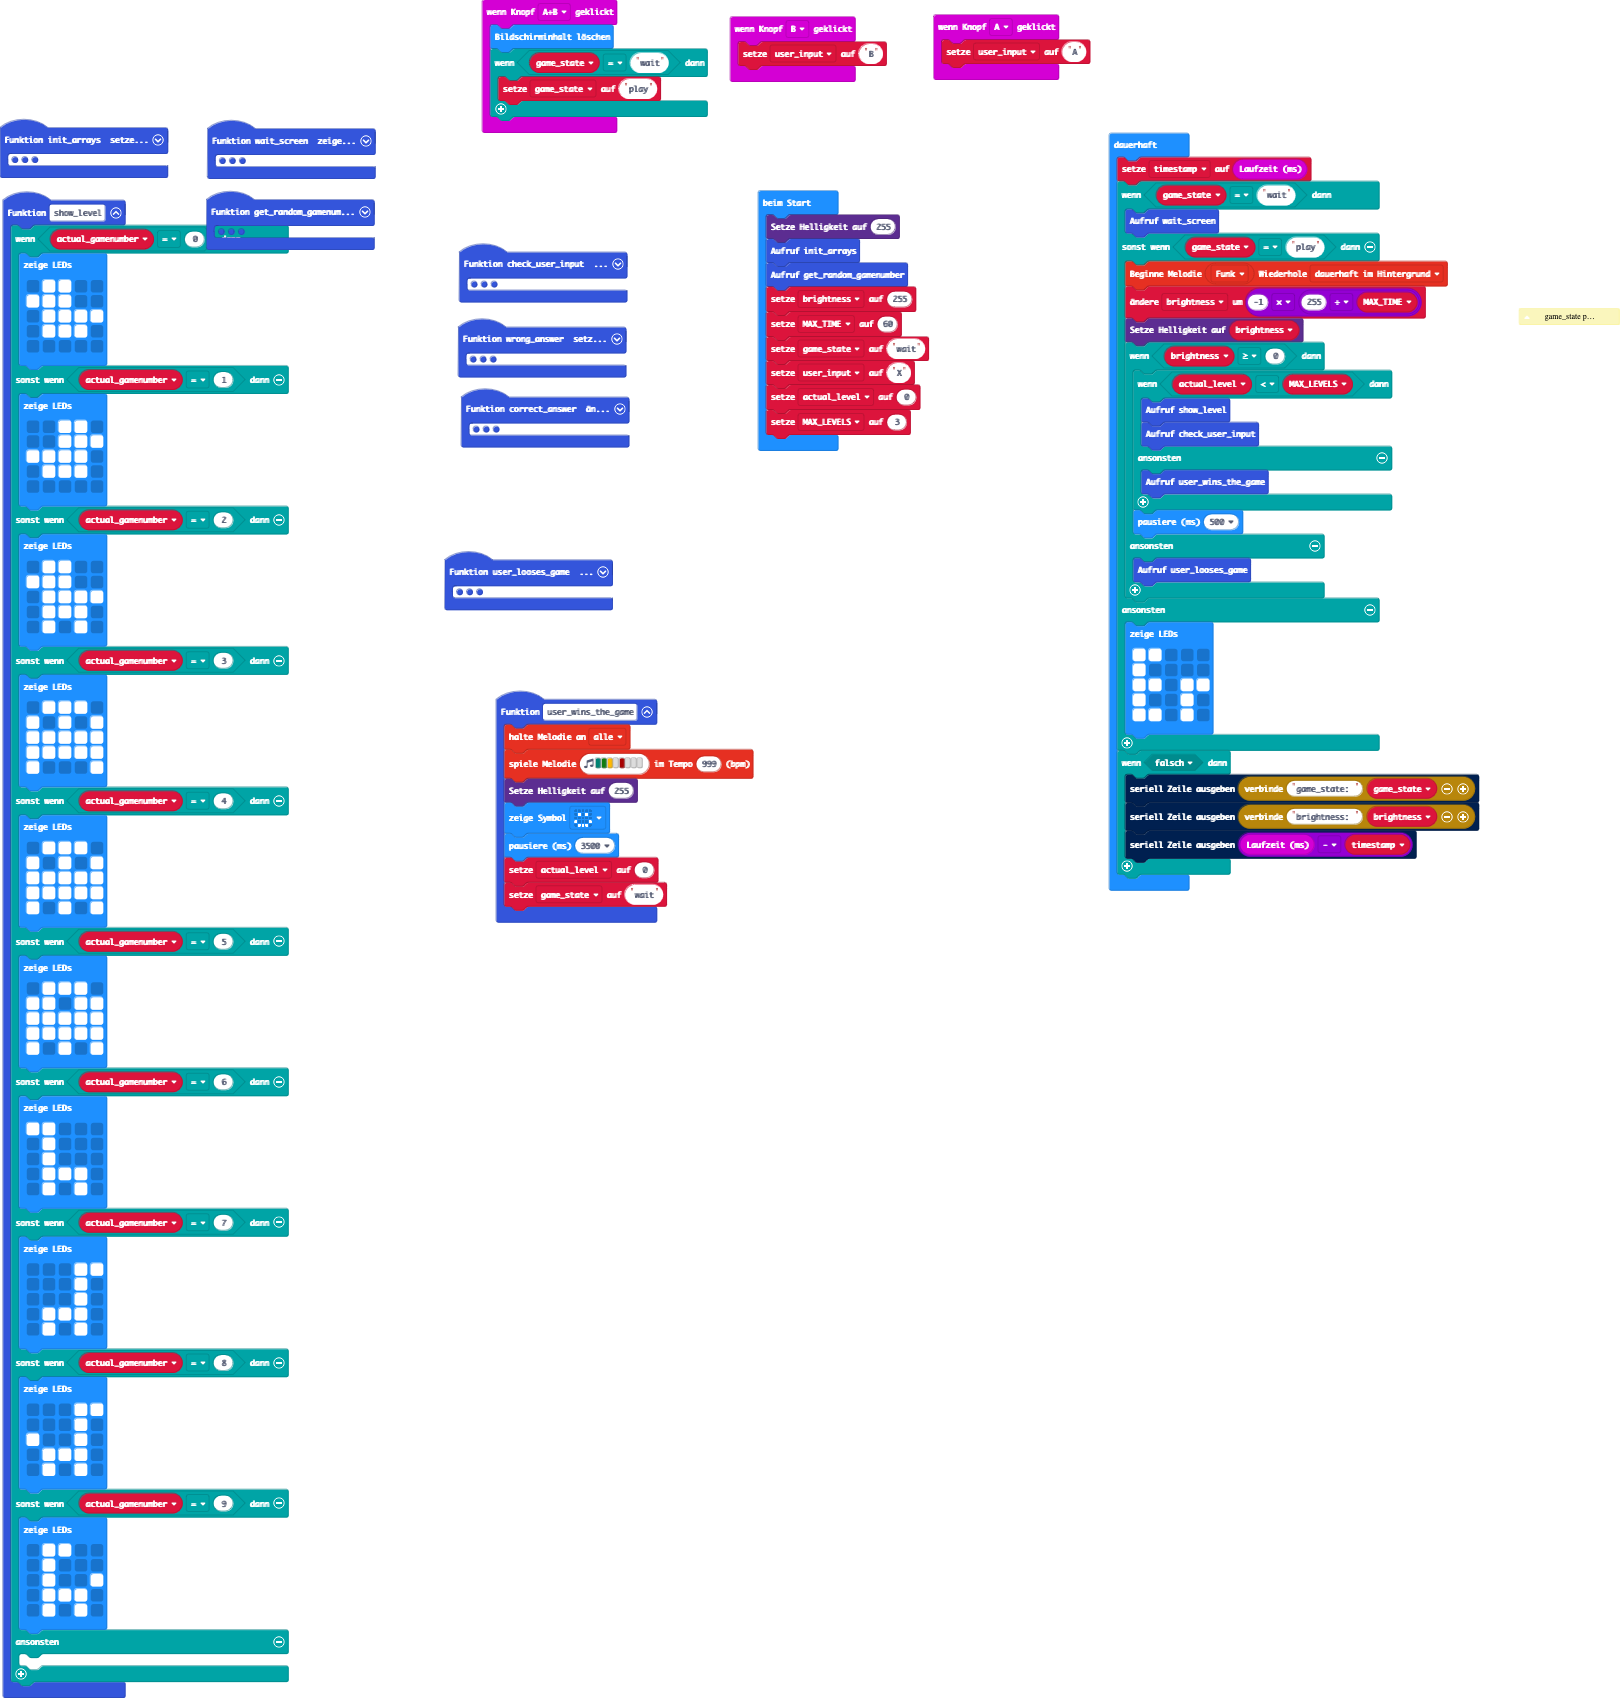
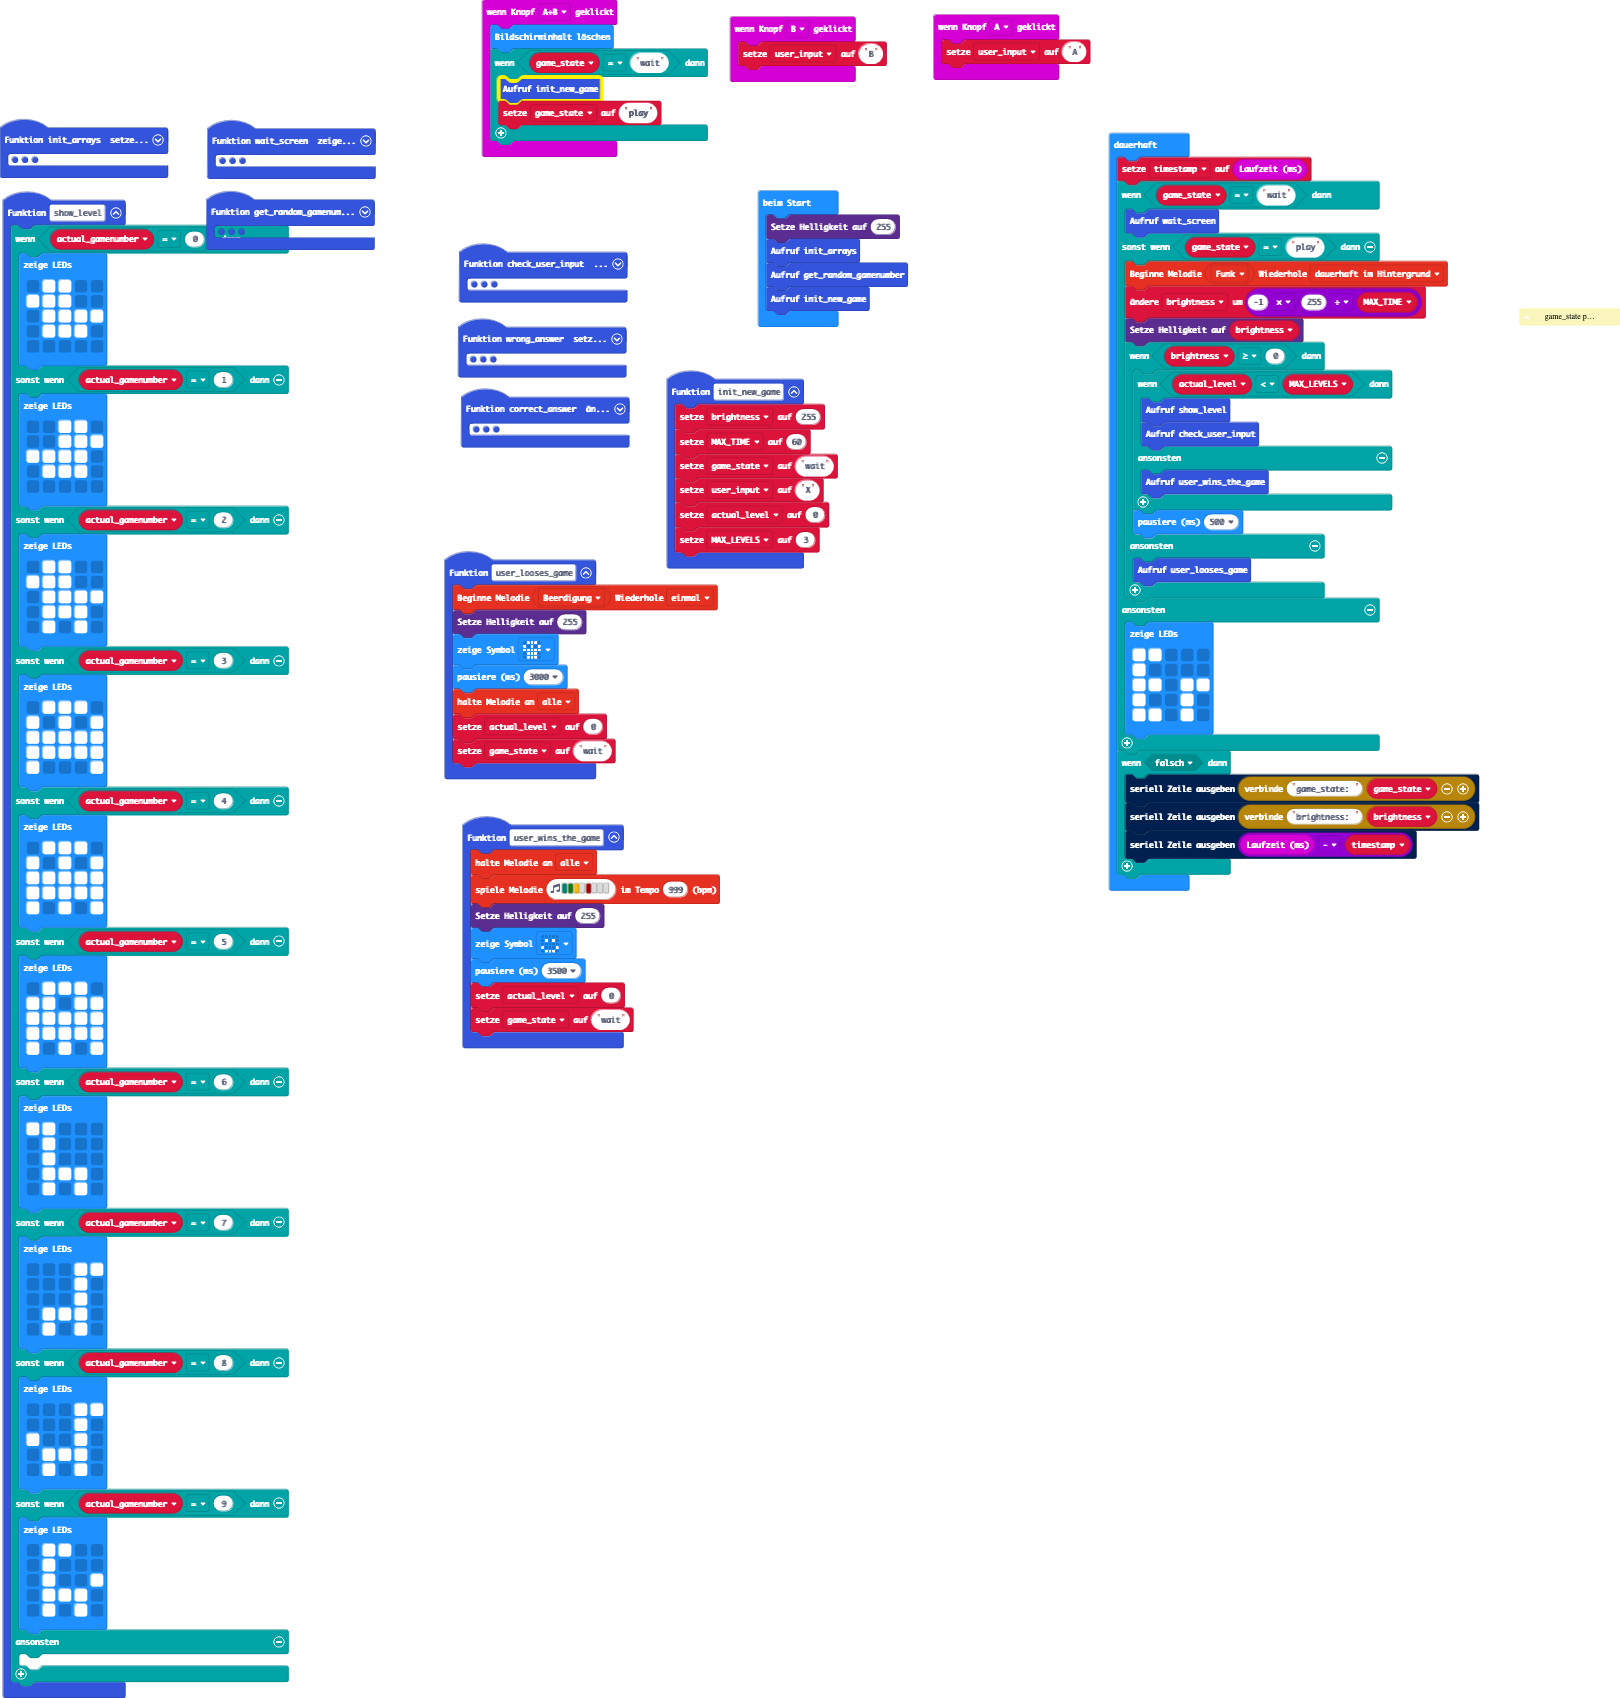
update

Changed region(s): [[0.2469, 0.1561, 0.5864, 0.6243], [0.2778, 0.0312, 0.4321, 0.0936]]

diff --git a/main.ts b/main.ts
@@ -47,6 +47,7 @@ function user_looses_game () {
     basic.showIcon(IconNames.Skull)
     basic.pause(3000)
     music.stopMelody(MelodyStopOptions.All)
+    actual_level = 0
     game_state = "wait"
 }
 function user_wins_the_game () {
@@ -201,12 +202,21 @@ function wait_screen () {
 input.onButtonPressed(Button.AB, function () {
     basic.clearScreen()
     if (game_state == "wait") {
+        init_new_game()
         game_state = "play"
     }
 })
 input.onButtonPressed(Button.B, function () {
     user_input = "B"
 })
+function init_new_game () {
+    brightness = 255
+    MAX_TIME = 60
+    game_state = "wait"
+    user_input = "X"
+    actual_level = 0
+    MAX_LEVELS = 3
+}
 function get_random_gamenumber () {
     random_index = randint(0, ALL_GAME_NUMBERS.length - 1)
     actual_gamenumber = ALL_GAME_NUMBERS[random_index]
@@ -215,22 +225,20 @@ function get_random_gamenumber () {
     }
 }
 let timestamp = 0
+let MAX_LEVELS = 0
+let MAX_TIME = 0
+let brightness = 0
 let random_index = 0
 let actual_gamenumber = 0
+let game_state = ""
+let user_input = ""
+let actual_level = 0
 let ALL_GAME_NUMBERS: number[] = []
 let SOLUTIONS: string[] = []
-let actual_level = 0
-let user_input = ""
-let game_state = ""
 led.setBrightness(255)
 init_arrays()
 get_random_gamenumber()
-let brightness = 255
-let MAX_TIME = 60
-game_state = "wait"
-user_input = "X"
-actual_level = 0
-let MAX_LEVELS = 3
+init_new_game()
 basic.forever(function () {
     timestamp = input.runningTime()
     if (game_state == "wait") {
